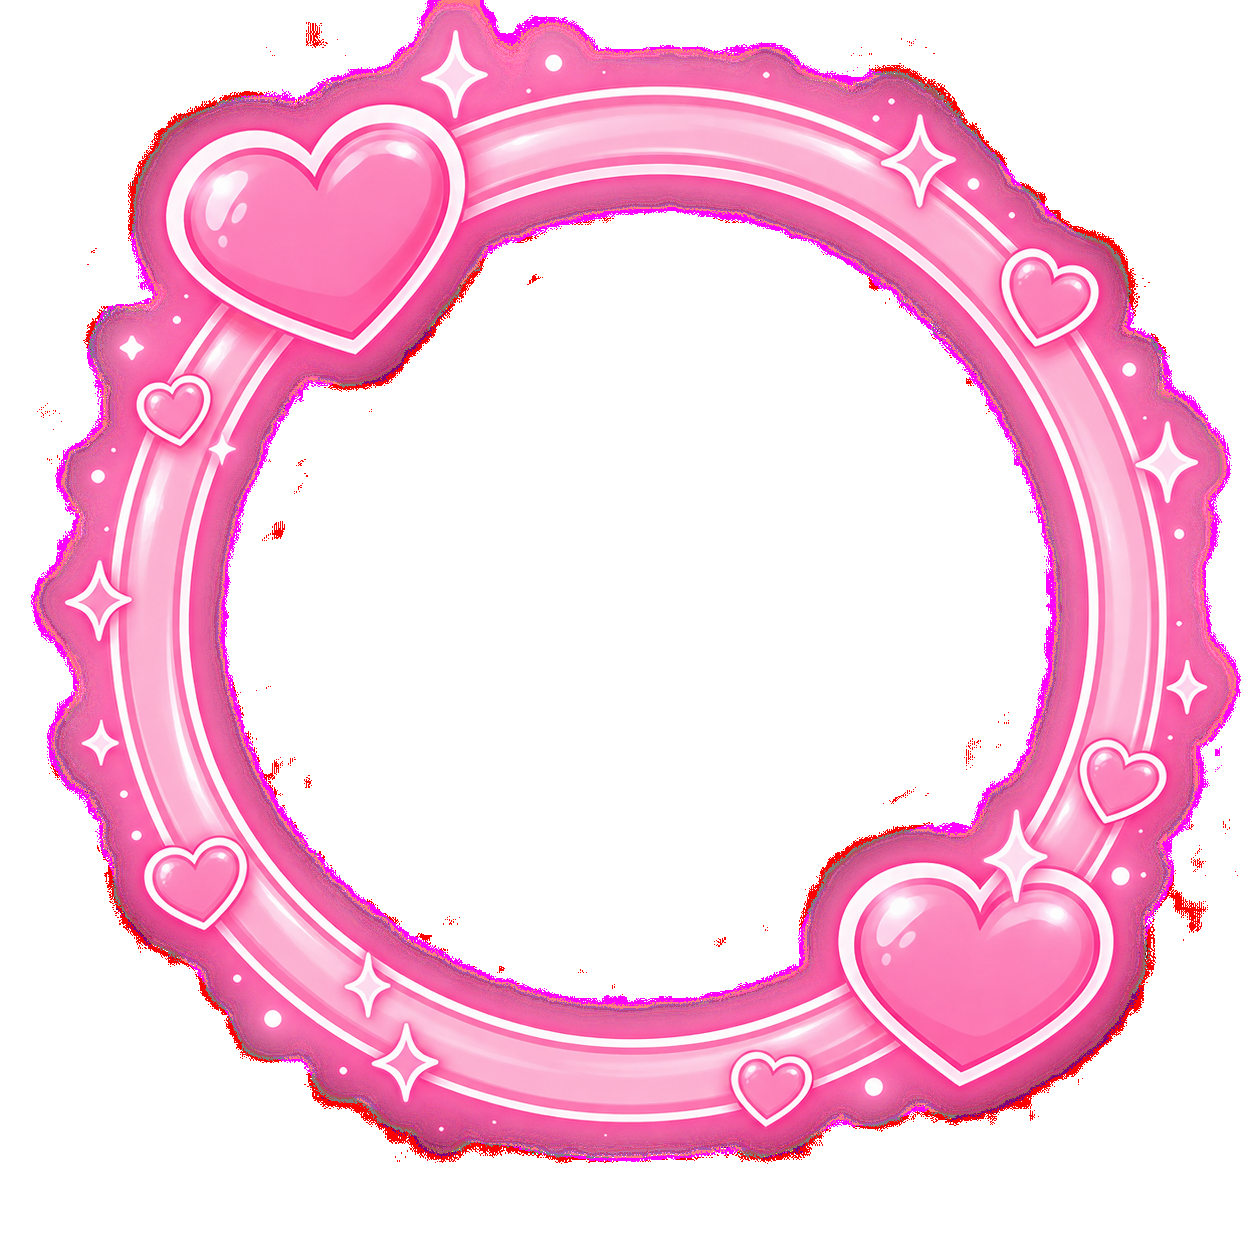
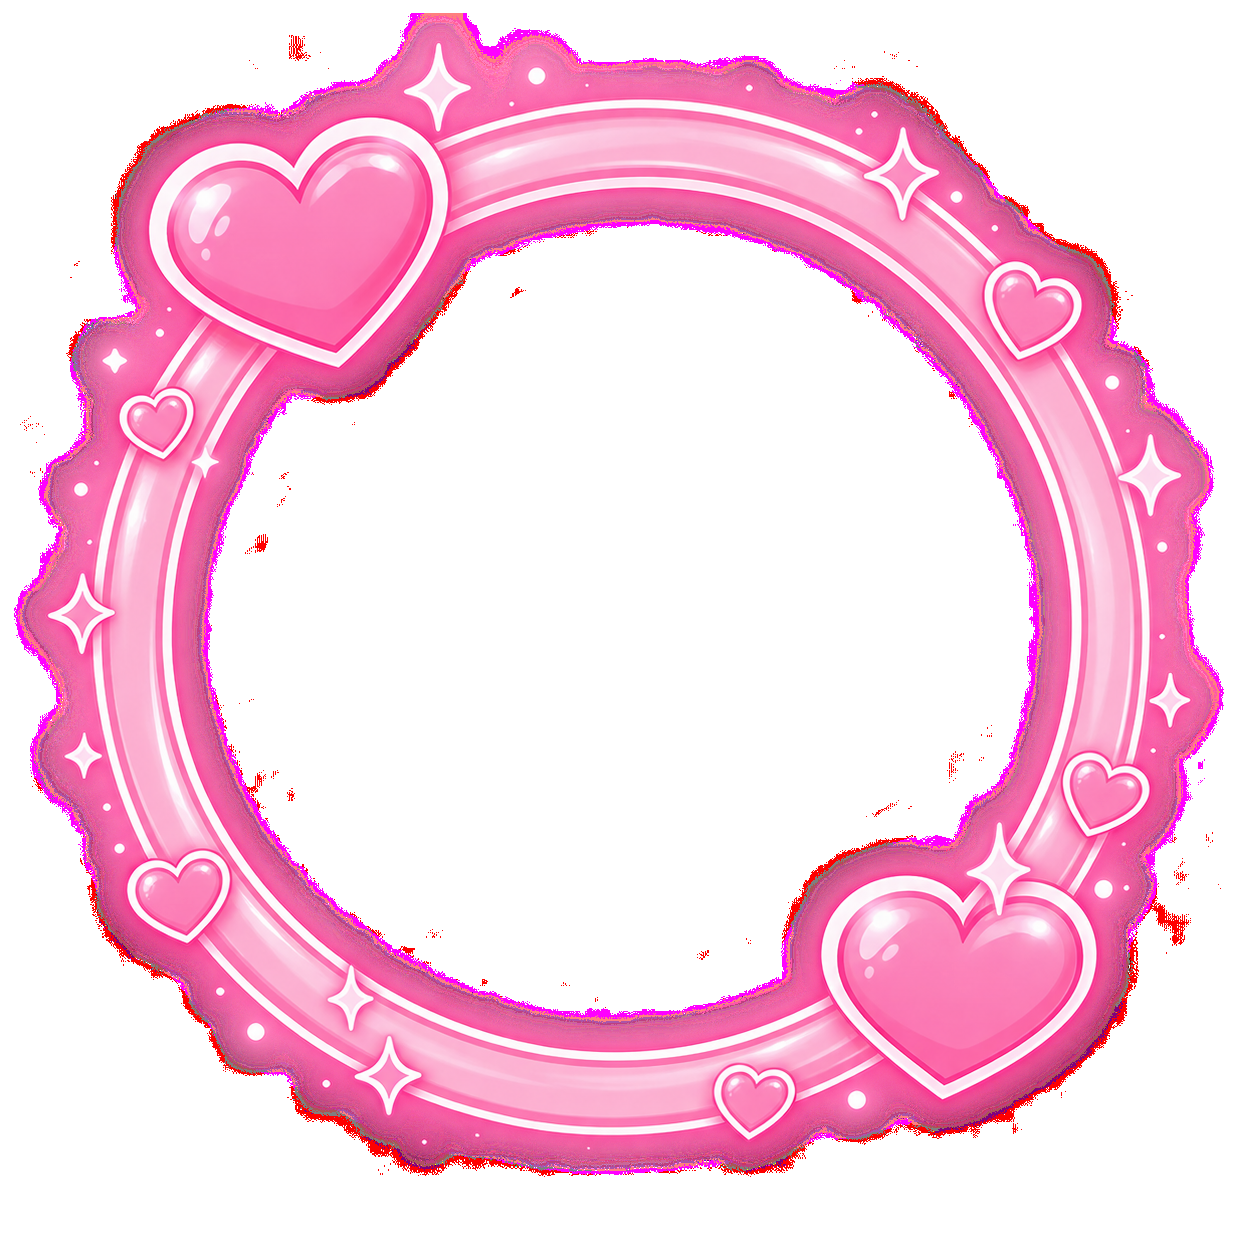
Recenter ring_pink_hearts.png with Python script apply exact 64.68% hole ratio CSS and restrict frames to Pink Hearts Ring only

Changed region(s): [[0.0, 0.0, 1.0, 0.95]]

diff --git a/client/style.css b/client/style.css
@@ -2807,7 +2807,7 @@ main, .pages, .page {
   }
 }
 
-/* Perfect Center-Aligned Avatar Ring & PFP Styling */
+/* Perfect Center-Aligned Avatar Ring & PFP Styling (Measured via Python script) */
 .avatar-wrapper {
   position: relative !important;
   display: inline-flex !important;
@@ -2835,10 +2835,10 @@ main, .pages, .page {
   transition: all 0.2s ease !important;
 }
 
-/* When a ring is equipped: avatar core scales to 74% to fit inside the ring hole seamlessly */
+/* Python measurement: inner hole is exactly 64.68% of the recentered ring canvas */
 .avatar-wrapper.has-ring .avatar-core {
-  width: 74% !important;
-  height: 74% !important;
+  width: 64.68% !important;
+  height: 64.68% !important;
   background: transparent !important;
   box-shadow: none !important;
   border: none !important;
@@ -2862,16 +2862,16 @@ main, .pages, .page {
   font-weight: 800 !important;
   color: #ffffff !important;
   background: var(--purple2, #6d28d9) !important;
-  font-size: calc(var(--avatar-outer, 56px) * 0.35) !important;
+  font-size: calc(var(--avatar-outer, 56px) * 0.32) !important;
 }
 
-/* Ring Overlay — sits centered at 108% over wrapper */
+/* Ring Overlay — sits 100% over the wrapper container, perfectly centered */
 .avatar-wrapper .avatar-ring {
   position: absolute !important;
   top: 50% !important;
   left: 50% !important;
-  width: 108% !important;
-  height: 108% !important;
+  width: 100% !important;
+  height: 100% !important;
   transform: translate(-50%, -50%) !important;
   object-fit: contain !important;
   pointer-events: none !important;
@@ -2882,10 +2882,10 @@ main, .pages, .page {
 
 .avatar-wrapper .status-orb {
   position: absolute !important;
-  bottom: -2px !important;
-  right: -2px !important;
-  width: calc(var(--avatar-outer, 56px) * 0.26) !important;
-  height: calc(var(--avatar-outer, 56px) * 0.26) !important;
+  bottom: 0px !important;
+  right: 0px !important;
+  width: calc(var(--avatar-outer, 56px) * 0.24) !important;
+  height: calc(var(--avatar-outer, 56px) * 0.24) !important;
   border-radius: 50% !important;
   border: 2px solid #0e0e15 !important;
   z-index: 4 !important;

diff --git a/client/components/cosmetics.js b/client/components/cosmetics.js
@@ -33,87 +33,6 @@
       image: true,
       cat: "frame",
       colors: ["#ff4d8d", "#ff8fab"]
-    },
-    {
-      id: "frame_ribbon",
-      name: "Coquette Pink Ribbon",
-      src: "/assets/frames/ring_ribbon.png",
-      rarity: "epic",
-      image: true,
-      cat: "frame",
-      colors: ["#ff8fab", "#ffb4d9"]
-    },
-    {
-      id: "frame_pfp_hearts",
-      name: "Valentine Hearts Halo",
-      src: "/assets/frames/pfp_hearts.png",
-      rarity: "legendary",
-      image: true,
-      cat: "frame",
-      colors: ["#ff1493", "#ff69b4"]
-    },
-    {
-      id: "frame_pfp_bow",
-      name: "Pink Velvet Bow",
-      src: "/assets/frames/pfp_bow.png",
-      rarity: "epic",
-      image: true,
-      cat: "frame",
-      colors: ["#ffb6c1", "#fff0f5"]
-    },
-    {
-      id: "frame_ai_hearts",
-      name: "Floating Hearts",
-      src: "/assets/frames/ai_hearts.png",
-      rarity: "rare",
-      image: true,
-      cat: "frame",
-      colors: ["#ff4d8d", "#ff8fab"]
-    },
-    {
-      id: "frame_ai_bow",
-      name: "Coquette Bowtie",
-      src: "/assets/frames/ai_bow.png",
-      rarity: "rare",
-      image: true,
-      cat: "frame",
-      colors: ["#ff69b4", "#ffb6c1"]
-    },
-    {
-      id: "frame_ai_angel",
-      name: "Cupid Angel Wings",
-      src: "/assets/frames/ai_angel.png",
-      rarity: "legendary",
-      image: true,
-      cat: "frame",
-      colors: ["#fff0f5", "#ffb6c1"]
-    },
-    {
-      id: "frame_ai_flower",
-      name: "Sakura Blossom Garden",
-      src: "/assets/frames/ai_flower.png",
-      rarity: "rare",
-      image: true,
-      cat: "frame",
-      colors: ["#ffc0cb", "#ff69b4"]
-    },
-    {
-      id: "frame_cherry",
-      name: "Sweet Cherry",
-      src: "/assets/frames/cherry.svg",
-      rarity: "uncommon",
-      image: true,
-      cat: "frame",
-      colors: ["#ff1493", "#ff69b4"]
-    },
-    {
-      id: "frame_strawberry",
-      name: "Strawberry Milkshake",
-      src: "/assets/frames/strawberry.svg",
-      rarity: "uncommon",
-      image: true,
-      cat: "frame",
-      colors: ["#ff80bf", "#ffb3d9"]
     }
   ];
 

diff --git a/client/index.html b/client/index.html
@@ -10,7 +10,7 @@
   <link href="https://fonts.googleapis.com/css2?family=Comfortaa:wght@500;700&family=Dancing+Script:wght@500;600&family=Inter:wght@400;600;700&family=JetBrains+Mono:wght@500;600&family=Nunito:wght@600;700;800&family=Outfit:wght@400;500;600;700;800&family=Pacifico&family=Plus+Jakarta+Sans:wght@500;600;700&family=Poppins:wght@400;600;700;800&family=Press+Start+2P&family=Quicksand:wght@500;600;700&family=Rubik:wght@500;600;700&family=Space+Grotesk:wght@500;600;700&family=VT323&display=swap" rel="stylesheet">
 
   <link rel="preconnect" href="https://fonts.googleapis.com" />
-  <link rel="stylesheet" href="/style.css?v=v6" />
+  <link rel="stylesheet" href="/style.css?v=v7" />
 </head>
 <body>
   <div id="app">
@@ -384,17 +384,17 @@
     }
   });
   </script>
-  <script src="https://unpkg.com/lucide@0.468.0/dist/umd/lucide.min.js?v=v6"></script>
-  <script src="/socket.io/socket.io.js?v=v6"></script>
-  <script src="/config.js?v=v6"></script>
-  <script src="/providers/vidking.js?v=v6"></script>
-  <script src="/providers/youtube.js?v=v6"></script>
-  <script src="/providers/html5.js?v=v6"></script>
-  <script src="/components/player.js?v=v6"></script>
-  <script src="/components/movies.js?v=v6"></script>
-  <script src="/components/cosmetics.js?v=v6"></script>
-  <script src="/components/voice.js?v=v6"></script>
-  <script src="/app.js?v=v6"></script>
+  <script src="https://unpkg.com/lucide@0.468.0/dist/umd/lucide.min.js?v=v7"></script>
+  <script src="/socket.io/socket.io.js?v=v7"></script>
+  <script src="/config.js?v=v7"></script>
+  <script src="/providers/vidking.js?v=v7"></script>
+  <script src="/providers/youtube.js?v=v7"></script>
+  <script src="/providers/html5.js?v=v7"></script>
+  <script src="/components/player.js?v=v7"></script>
+  <script src="/components/movies.js?v=v7"></script>
+  <script src="/components/cosmetics.js?v=v7"></script>
+  <script src="/components/voice.js?v=v7"></script>
+  <script src="/app.js?v=v7"></script>
 </body>
 </html>
 
